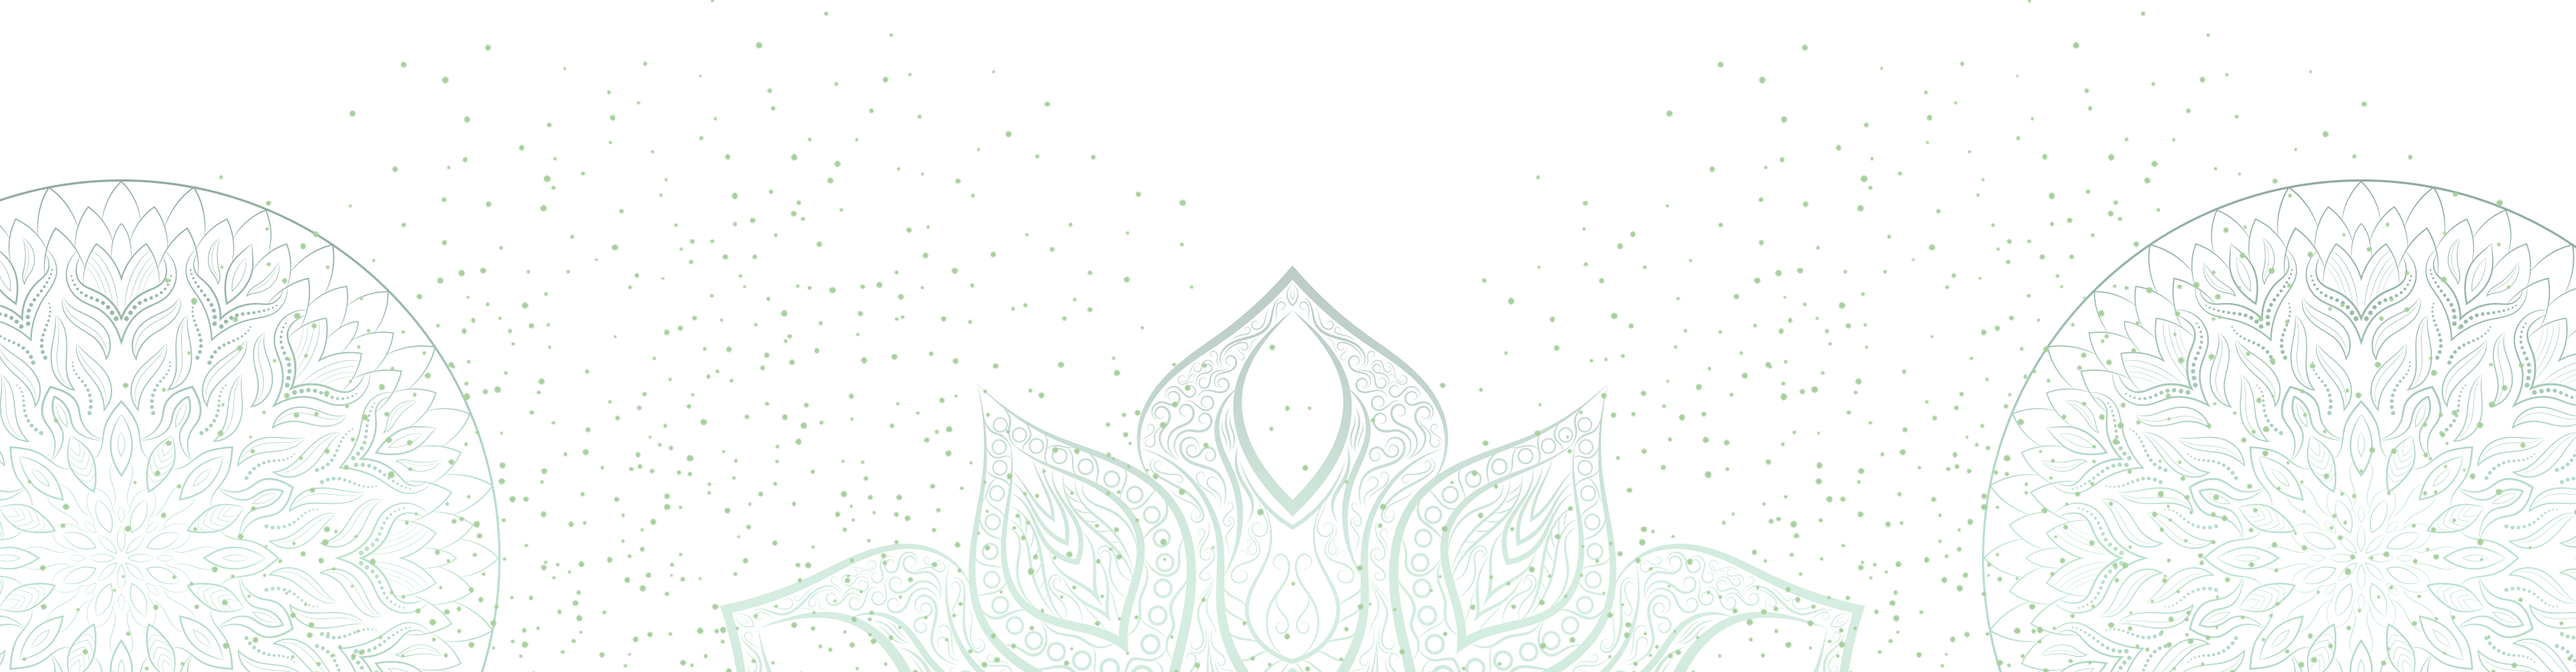
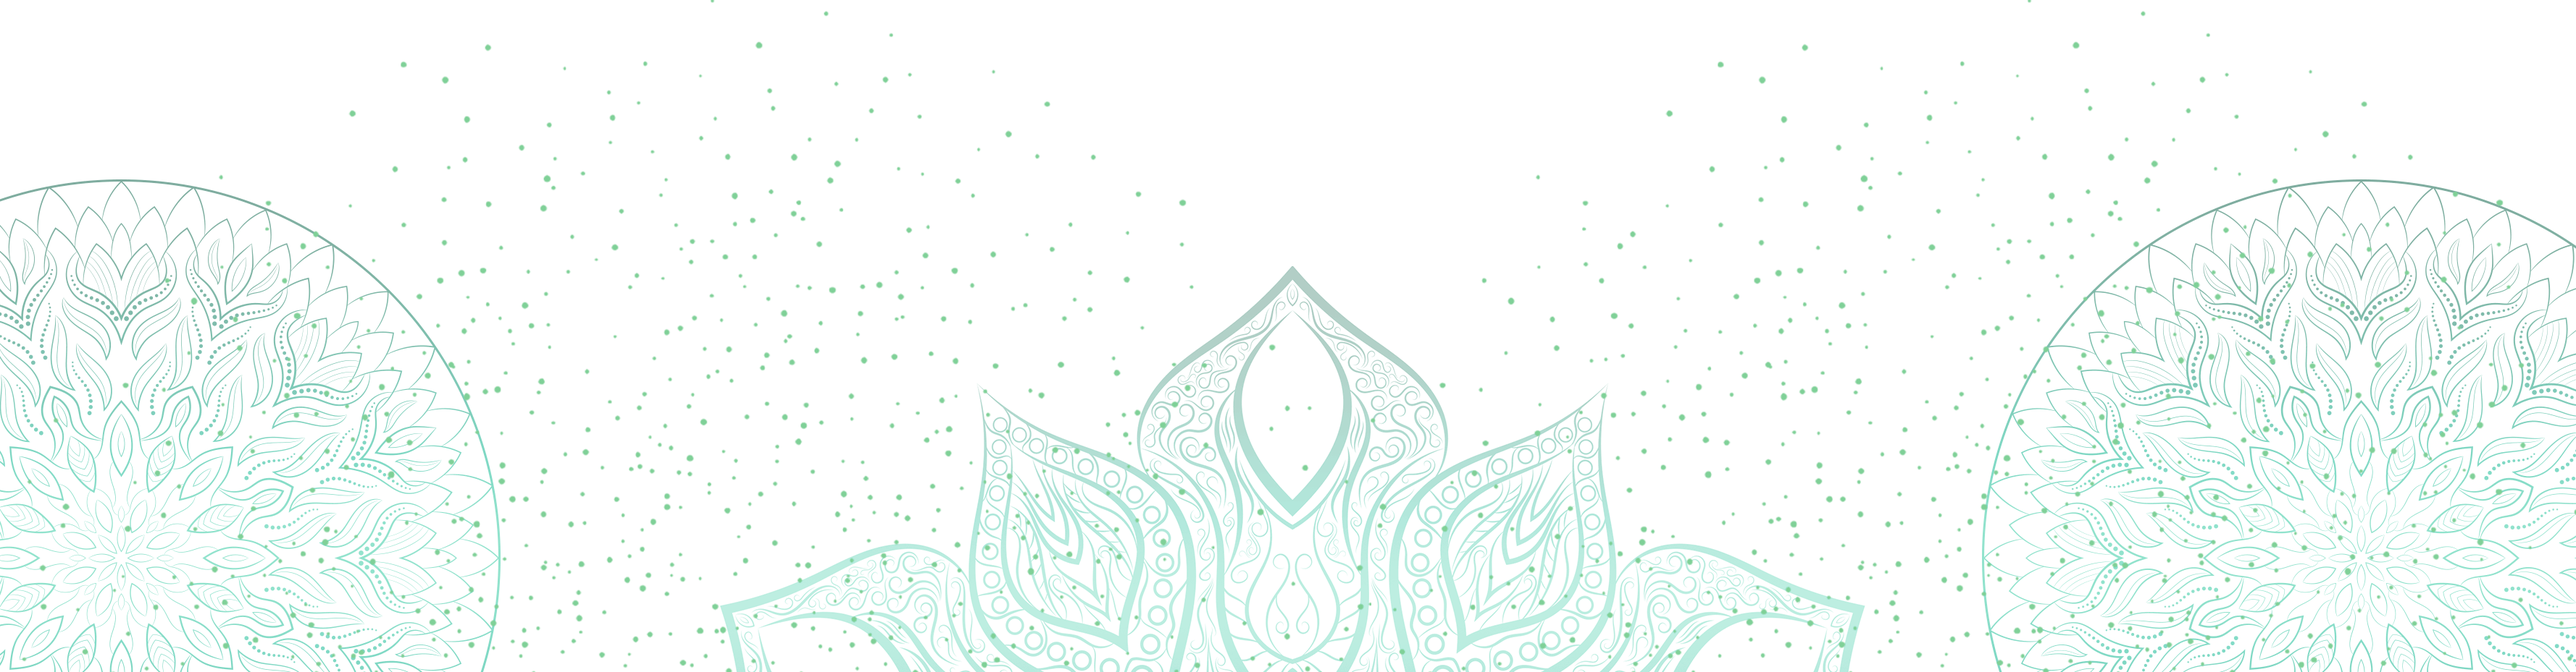
form design complete

diff --git a/src/pages/MahofilForm/MahofilForm.jsx b/src/pages/MahofilForm/MahofilForm.jsx
@@ -1,18 +1,305 @@
-import React from 'react';
-import { Helmet } from 'react-helmet';
-import Heading from '../../components/Heading';
-import Quote from '../../components/Quote';
+import React from "react";
+import { Helmet } from "react-helmet";
+import Heading from "../../components/Heading";
+import Quote from "../../components/Quote";
+import inputImg from "./../../../public/formImg.png";
 
 const MahofilForm = () => {
-    return (
-        <section className='p-8 bg-green-50'>
-            <Helmet><title>Application Form</title></Helmet>
-            <Heading heading={"প্রোগ্রামের জন্য আবেদন করুন"}></Heading>
-            <Quote quote={"যে ব্যক্তি মানুষকে আল্লাহর পথে দাওয়াত দেয়, সৎকর্ম করে আর বলে, ‘আমি তো মুসলমানদের একজন’, তার চেয়ে উত্তম আর কে হতে পারে? (সূরা হা-মিম-সাজদা: ৩৩)"}></Quote>
-            <p className='text-red-500 mb-4'>ফর্মের নিচে আমাদের নীতিমালা ও শর্তাবলী দেওয়া আছে। আবেদনের পূর্বে নীতিমালা ও শর্তাবলী পড়ে নিবেন ইনশাআল্লাহ।</p>
-
-        </section>
-    );
+  return (
+    <section className="md:p-8 p-4 bg-green-200">
+      <Helmet>
+        <title>Application Form</title>
+      </Helmet>
+      <Heading heading={"প্রোগ্রামের জন্য আবেদন করুন"}></Heading>
+      <Quote
+        quote={
+          "যে ব্যক্তি মানুষকে আল্লাহর পথে দাওয়াত দেয়, সৎকর্ম করে আর বলে, ‘আমি তো মুসলমানদের একজন’, তার চেয়ে উত্তম আর কে হতে পারে? (সূরা হা-মিম-সাজদা: ৩৩)"
+        }
+      ></Quote>
+      <p className="text-red-500 mb-4">
+        ফর্মের নিচে আমাদের নীতিমালা ও শর্তাবলী দেওয়া আছে। আবেদনের পূর্বে
+        নীতিমালা ও শর্তাবলী পড়ে নিবেন ইনশাআল্লাহ।
+      </p>
+      <form className="flex items-center flex-col p-4 gap-4">
+        <div className="md:w-[600px] w-full h-20 flex items-center relative">
+          <p className="absolute -top-2 left-20 text-green-700">
+            আবেদনকারীর নাম
+          </p>
+          <img src={inputImg} alt="" className="h-full z-10" />
+          <input
+            type="text"
+            name=""
+            id=""
+            className="w-full pl-16 pr-2 py-2 absolute z-0 left-6 rounded-full bg-white focus:outline-none border-4 border-green-800"
+          />
+        </div>
+        <div className="md:w-[600px] w-full h-20 flex items-center relative">
+          <p className="absolute -top-2 left-20 text-green-700">
+            আবেদনকারীর মোবাইল নম্বর (ইংরেজিতে)
+          </p>
+          <img src={inputImg} alt="" className="h-full z-10" />
+          <input
+            type="number"
+            name=""
+            id=""
+            className="w-full pl-16 pr-2 py-2 absolute z-0 left-6 rounded-full bg-white focus:outline-none border-4 border-green-800"
+          />
+        </div>
+        <div className="md:w-[600px] w-full h-20 flex items-center relative">
+          <p className="absolute -top-2 left-20 text-green-700">
+          মাহফিলের প্রস্তাবিত তারিখ
+          </p>
+          <img src={inputImg} alt="" className="h-full z-10" />
+          <input
+            type="text"
+            name=""
+            id=""
+            className="w-full pl-16 pr-2 py-2 absolute z-0 left-6 rounded-full bg-white focus:outline-none border-4 border-green-800"
+          />
+        </div>
+        <div className="md:w-[600px] w-full h-20 flex items-center relative">
+          <p className="absolute -top-2 left-20 text-green-700">
+          মাহফিল কোন জেলায় করতে চান?
+          </p>
+          <img src={inputImg} alt="" className="h-full z-10" />
+          <input
+            type="text"
+            name=""
+            id=""
+            className="w-full pl-16 pr-2 py-2 absolute z-0 left-6 rounded-full bg-white focus:outline-none border-4 border-green-800"
+          />
+        </div>
+        <div className="md:w-[600px] w-full h-20 flex items-center relative">
+          <p className="absolute -top-2 left-20 text-green-700">
+          প্রোগ্রাস্থলের বিস্তারিত ঠিকানা
+          </p>
+          <img src={inputImg} alt="" className="h-full z-10" />
+          <input
+            type="text"
+            name=""
+            id=""
+            className="w-full pl-16 pr-2 py-2 absolute z-0 left-6 rounded-full bg-white focus:outline-none border-4 border-green-800"
+          />
+        </div>
+        <div className="md:w-[600px] w-full h-20 flex items-center relative">
+          <p className="absolute -top-2 left-20 text-green-700">
+          গুগল ম্যাপ এর প্রোগ্রাস্থলের ঠিকানার লিংক (যদি পারেন)
+          </p>
+          <img src={inputImg} alt="" className="h-full z-10" />
+          <input
+            type="text"
+            name=""
+            id=""
+            className="w-full pl-16 pr-2 py-2 absolute z-0 left-6 rounded-full bg-white focus:outline-none border-4 border-green-800"
+          />
+        </div>
+        <div className="md:w-[600px] w-full h-20 flex items-center relative">
+          <p className="absolute -top-2 left-20 text-green-700">
+          যে মাঠে বা মিলনায়তনে মাহফিল করতে চান তার নাম
+          </p>
+          <img src={inputImg} alt="" className="h-full z-10" />
+          <input
+            type="text"
+            name=""
+            id=""
+            className="w-full pl-16 pr-2 py-2 absolute z-0 left-6 rounded-full bg-white focus:outline-none border-4 border-green-800"
+          />
+        </div>
+        <div className="md:w-[600px] w-full h-20 flex items-center relative">
+          <p className="absolute -top-2 left-20 text-green-700">
+          মাহফিলের প্রধান আয়োজক/সভাপতির নাম ও মোবাইল নম্বর
+          </p>
+          <img src={inputImg} alt="" className="h-full z-10" />
+          <input
+            type="text"
+            name=""
+            id=""
+            className="w-full pl-16 pr-2 py-2 absolute z-0 left-6 rounded-full bg-white focus:outline-none border-4 border-green-800"
+          />
+        </div>
+        <div className="md:w-[600px] w-full h-20 flex items-center relative">
+          <p className="absolute -top-2 left-20 text-green-700">
+          এটি এই জায়গার কততম মাহফিল?
+          </p>
+          <img src={inputImg} alt="" className="h-full z-10" />
+          <input
+            type="text"
+            name=""
+            id=""
+            className="w-full pl-16 pr-2 py-2 absolute z-0 left-6 rounded-full bg-white focus:outline-none border-4 border-green-800"
+          />
+        </div>
+        <div className="md:w-[600px] w-full h-20 flex items-center relative">
+          <p className="absolute -top-2 left-20 text-green-700">
+          সর্বশেষ কবে এই জায়গায় মাহফিল হয়েছিল?
+          </p>
+          <img src={inputImg} alt="" className="h-full z-10" />
+          <input
+            type="text"
+            name=""
+            id=""
+            className="w-full pl-16 pr-2 py-2 absolute z-0 left-6 rounded-full bg-white focus:outline-none border-4 border-green-800"
+          />
+        </div>
+        <div className="md:w-[600px] w-full h-20 flex items-center relative">
+          <p className="absolute -top-2 left-20 text-green-700">
+          মাহফিলের আলোচক হিসাবে আর কে কে উপস্থিত থাকবেন?
+          </p>
+          <img src={inputImg} alt="" className="h-full z-10" />
+          <input
+            type="text"
+            name=""
+            id=""
+            className="w-full pl-16 pr-2 py-2 absolute z-0 left-6 rounded-full bg-white focus:outline-none border-4 border-green-800"
+          />
+        </div>
+        <div className="md:w-[600px] w-full h-20 flex items-center relative">
+          <p className="absolute -top-2 left-20 text-green-700">
+          আবু ত্বহা মুহাম্মাদ আদনান কে কোন সময় থেকে কোন সময় পর্যন্ত আলোচনা করতে হবে?
+          </p>
+          <img src={inputImg} alt="" className="h-full z-10" />
+          <input
+            type="text"
+            name=""
+            id=""
+            className="w-full pl-16 pr-2 py-2 absolute z-0 left-6 rounded-full bg-white focus:outline-none border-4 border-green-800"
+          />
+        </div>
+        <div className="md:w-[600px] w-full h-20 flex items-center relative">
+          <p className="absolute -top-2 left-20 text-green-700">
+          কী বিষয়ে আলোচনা করার অনুরোধ করবেন?
+          </p>
+          <img src={inputImg} alt="" className="h-full z-10" />
+          <input
+            type="text"
+            name=""
+            id=""
+            className="w-full pl-16 pr-2 py-2 absolute z-0 left-6 rounded-full bg-white focus:outline-none border-4 border-green-800"
+          />
+        </div>
+        <div className="md:w-[600px] w-full h-20 flex items-center relative">
+          <p className="absolute -top-2 left-20 text-green-700">
+          মাহফিলে আবু ত্বহা মুহাম্মাদ আদনানকে অর্থ কালেকশন করতে হবে কি না?
+          </p>
+          <img src={inputImg} alt="" className="h-full z-10" />
+          <input
+            type="text"
+            name=""
+            id=""
+            className="w-full pl-16 pr-2 py-2 absolute z-0 left-6 rounded-full bg-white focus:outline-none border-4 border-green-800"
+          />
+        </div>
+        <div className="md:w-[600px] w-full h-20 flex items-center relative">
+          <p className="absolute -top-2 left-20 text-green-700">
+          বিগত বছরের মাহফিলে আলোচক ছিলেন কে কে?
+          </p>
+          <img src={inputImg} alt="" className="h-full z-10" />
+          <input
+            type="text"
+            name=""
+            id=""
+            className="w-full pl-16 pr-2 py-2 absolute z-0 left-6 rounded-full bg-white focus:outline-none border-4 border-green-800"
+          />
+        </div>
+        <div className="md:w-[600px] w-full h-20 flex items-center relative">
+          <p className="absolute -top-2 left-20 text-green-700">
+          বিগত বছরের মাহফিলের জন্য প্রশাসনের অনুমতি নেওয়া হয়েছিল কি না?
+          </p>
+          <img src={inputImg} alt="" className="h-full z-10" />
+          <input
+            type="text"
+            name=""
+            id=""
+            className="w-full pl-16 pr-2 py-2 absolute z-0 left-6 rounded-full bg-white focus:outline-none border-4 border-green-800"
+          />
+        </div>
+        <div className="md:w-[600px] w-full h-20 flex items-center relative">
+          <p className="absolute -top-2 left-20 text-green-700">
+          এই বছরের মাহফিলের জন্য প্রশাসনের লিখিত অনুমতি নিতে পারবেন কিনা?
+          </p>
+          <img src={inputImg} alt="" className="h-full z-10" />
+          <input
+            type="text"
+            name=""
+            id=""
+            className="w-full pl-16 pr-2 py-2 absolute z-0 left-6 rounded-full bg-white focus:outline-none border-4 border-green-800"
+          />
+        </div>
+        <div className="md:w-[600px] w-full h-20 flex items-center relative">
+          <p className="absolute -top-2 left-20 text-green-700">
+          পর্যাপ্ত ভলান্টিয়ার থাকবে কি না ?
+          </p>
+          <img src={inputImg} alt="" className="h-full z-10" />
+          <input
+            type="text"
+            name=""
+            id=""
+            className="w-full pl-16 pr-2 py-2 absolute z-0 left-6 rounded-full bg-white focus:outline-none border-4 border-green-800"
+          />
+        </div>
+        <div className="md:w-[600px] w-full h-20 flex items-center relative">
+          <p className="absolute -top-2 left-20 text-green-700">
+          মাহফিলের সাথে কোনো ধর্মীয় দলের সম্পৃক্ততা আছে কি না?
+          </p>
+          <img src={inputImg} alt="" className="h-full z-10" />
+          <input
+            type="text"
+            name=""
+            id=""
+            className="w-full pl-16 pr-2 py-2 absolute z-0 left-6 rounded-full bg-white focus:outline-none border-4 border-green-800"
+          />
+        </div>
+        <div className="md:w-[600px] w-full h-20 flex items-center relative">
+          <p className="absolute -top-2 left-20 text-green-700">
+          মাহফিলটি কোন ঘোরানার মানুষদের মধ্যে হবে? ( হানাফি/ আহলে হাদিস/ তাবলীগ/ জামায়াত/ চরমোনাই ইত্যাদি )
+          </p>
+          <img src={inputImg} alt="" className="h-full z-10" />
+          <input
+            type="text"
+            name=""
+            id=""
+            className="w-full pl-16 pr-2 py-2 absolute z-0 left-6 rounded-full bg-white focus:outline-none border-4 border-green-800"
+          />
+        </div>
+        <div className="md:w-[600px] w-full h-20 flex items-center relative">
+          <p className="absolute -top-2 left-20 text-green-700">
+          মাহফিলে কোনো রাজনৈতিক ব্যক্তি উপস্থিত থাকবেন কিনা? ( থাকলে তার নাম ও রাজনৈতিক পদবী )
+          </p>
+          <img src={inputImg} alt="" className="h-full z-10" />
+          <input
+            type="text"
+            name=""
+            id=""
+            className="w-full pl-16 pr-2 py-2 absolute z-0 left-6 rounded-full bg-white focus:outline-none border-4 border-green-800"
+          />
+        </div>
+        <div className="md:w-[600px] w-full h-20 flex items-center relative">
+          <p className="absolute -top-2 left-20 text-green-700">
+          আবু ত্বহা আদনান এর জন্য সম্ভাব্য পাথেয় খরচ কত?
+          </p>
+          <img src={inputImg} alt="" className="h-full z-10" />
+          <input
+            type="text"
+            name=""
+            id=""
+            className="w-full pl-16 pr-2 py-2 absolute z-0 left-6 rounded-full bg-white focus:outline-none border-4 border-green-800"
+          />
+        </div>
+        <div className="md:w-[600px] w-full h-20 flex items-center relative">
+          <p className="absolute -top-2 left-20 text-green-700">
+          বক্তার ব্যক্তিগত, অসুস্থতা, প্রশাসনিক ও অন্যান্য প্রাসঙ্গিক কারণে বক্তা কর্তৃক মাহফিল স্থগিত কিংবা তারিখ পরিবর্তন করার সম্পুর্ন এখতিয়ার থাকবে
+          </p>
+          <img src={inputImg} alt="" className="h-full z-10" />
+          <input
+            type="text"
+            name=""
+            id=""
+            className="w-full pl-16 pr-2 py-2 absolute z-0 left-6 rounded-full bg-white focus:outline-none border-4 border-green-800"
+          />
+        </div>
+      </form>
+    </section>
+  );
 };
 
 export default MahofilForm;

diff --git a/src/main.jsx b/src/main.jsx
@@ -23,18 +23,20 @@ const router = createBrowserRouter([
       },
       {
         path: "/signup",
-        element: <SignUp></SignUp>
+        element: <SignUp></SignUp>,
       },
       {
         path: "/program-application",
-        element: <MahofilForm></MahofilForm>
-      }
+        element: <MahofilForm></MahofilForm>,
+      },
     ],
   },
 ]);
 
 ReactDOM.createRoot(document.getElementById("root")).render(
   <React.StrictMode>
-    <RouterProvider router={router} />
+    <main className="max-w-6xl mx-auto">
+      <RouterProvider router={router} />
+    </main>
   </React.StrictMode>
 );

diff --git a/src/components/Heading.jsx b/src/components/Heading.jsx
@@ -6,7 +6,7 @@ const Heading = ({heading}) => {
     <section className="text-center mb-8">
       <div className="flex justify-center items-center">
         <img src={HeadingImg} alt="" className="h-20 rotate-180" />
-        <h2 className="text-2xl md:text-3xl font-bold">{heading}</h2>
+        <h2 className="text-xl md:text-3xl font-bold">{heading}</h2>
         <img src={HeadingImg} alt="" className="h-20" />
       </div>
     </section>

diff --git a/src/components/Quote.jsx b/src/components/Quote.jsx
@@ -2,7 +2,7 @@ import React from 'react';
 
 const Quote = ({quote}) => {
     return (
-        <div className=' quote w-full md:w-3/4 mx-auto flex p-6 mb-8 border-4 border-green-600 rounded-xl'>
+        <div className=' quote w-full md:w-3/4 mx-auto flex p-3 md:p-6 mb-8 border-4 border-green-600 rounded-xl'>
             <p className='text-center text-xl'>{quote}</p>
         </div>
     );

diff --git a/src/Layouts/MainLayout.jsx b/src/Layouts/MainLayout.jsx
@@ -5,11 +5,11 @@ import Footer from '../shared/Footer/Footer';
 
 const MainLayout = () => {
     return (
-        <main className='max-w-6xl mx-auto px-4 md:px-0'>
+            <>
             <Header></Header>
             <Outlet></Outlet>
             <Footer></Footer>
-        </main>
+            </>
     );
 };
 

diff --git a/src/index.css b/src/index.css
@@ -8,8 +8,8 @@ body {
   font-family: 'Hind Siliguri', sans-serif;
 }
 
-.quote {
-  background-image: url(./../public/quote.png);
+input, .quote {
+  background-image: url(./../public/quote2.png);
   background-size: cover;
   background-position: center;
 }
